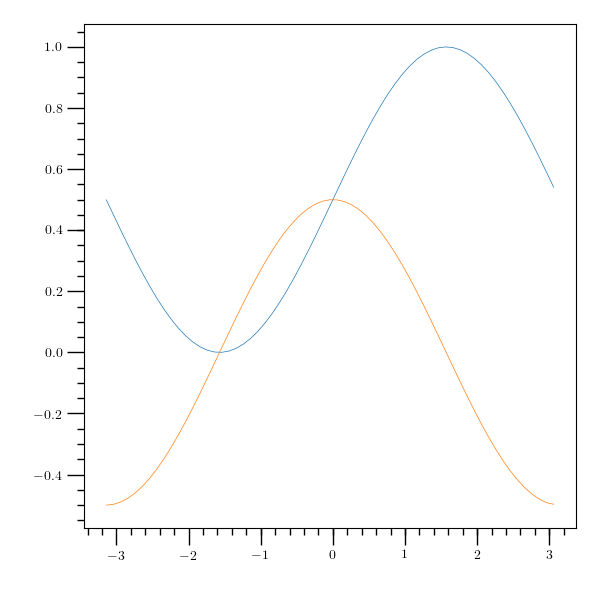
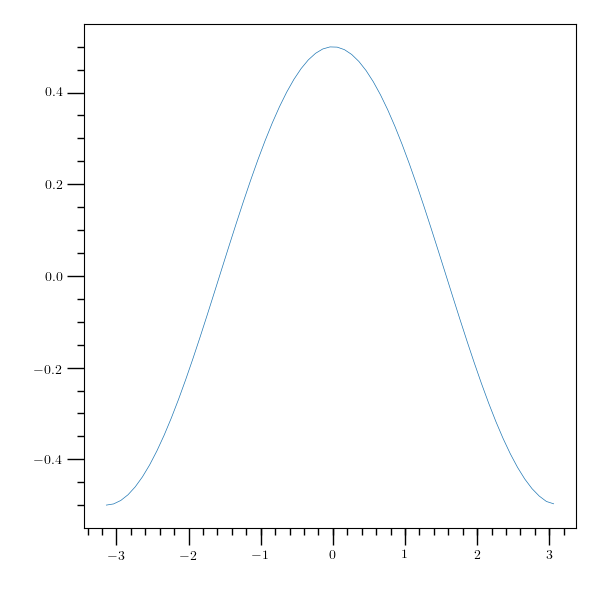
Added clf and improved docs.

diff --git a/o2sclpy/__init__.py b/o2sclpy/__init__.py
@@ -2294,6 +2294,11 @@ class o2graph_plotter(plot_base):
                     if self.verbose>2:
                         print('Process canvas.')
                     self.canvas()
+                elif cmd_name=='clf':
+                    if self.verbose>2:
+                        print('Process clf.')
+                    plot.clf()
+                    self.canvas_flag=0
                 elif cmd_name=='new-cmaps':
                     if self.verbose>2:
                         print('Process reds2.')

diff --git a/doc/index.rst b/doc/index.rst
@@ -58,19 +58,33 @@ The O\ :sub:`2`\ graph script implements all of the commands from the
 ``acol`` executable in O\ :sub:`2`\ scl documented at
 <https://web.utk.edu/~asteine1/o2scl/html/acol_section.html>
 	     
-Examples
---------
+Example 1
+---------
 
 .. include:: static/ex1.scr
    :literal:
 .. image:: static/ex1.png
    :width: 70%
 
+Example 2
+---------
+
 .. include:: static/ex2.scr
    :literal:
 .. image:: static/ex2.png
    :width: 70%
 
+Example 3
+---------
+
+.. include:: static/ex3.scr
+   :literal:
+
+Example 4
+---------
+
+.. include:: static/ex4.scr
+   :literal:
 
 Internal structure
 ------------------
